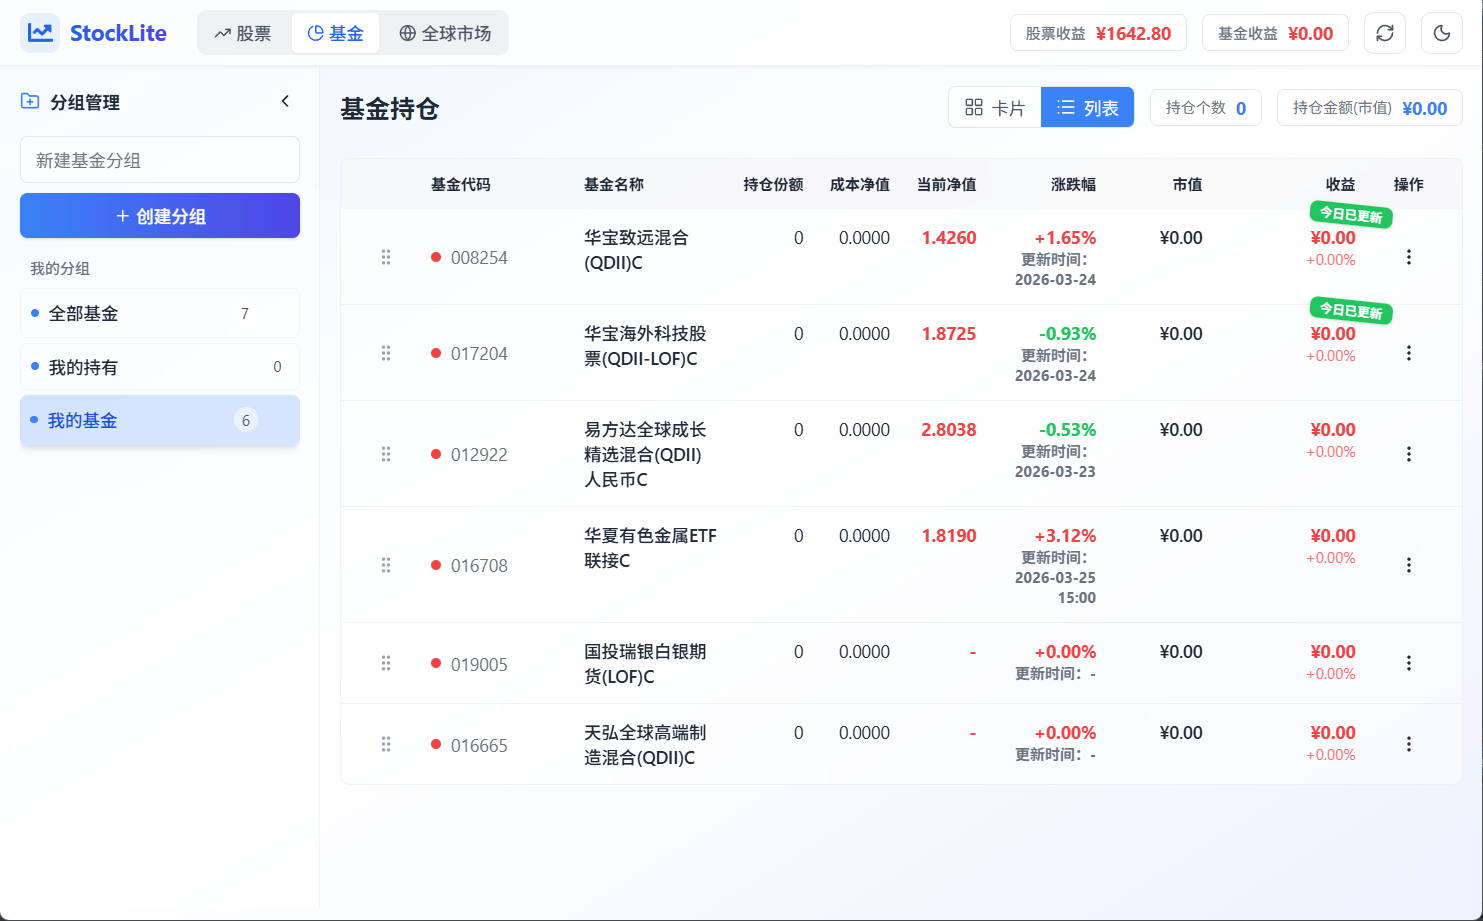
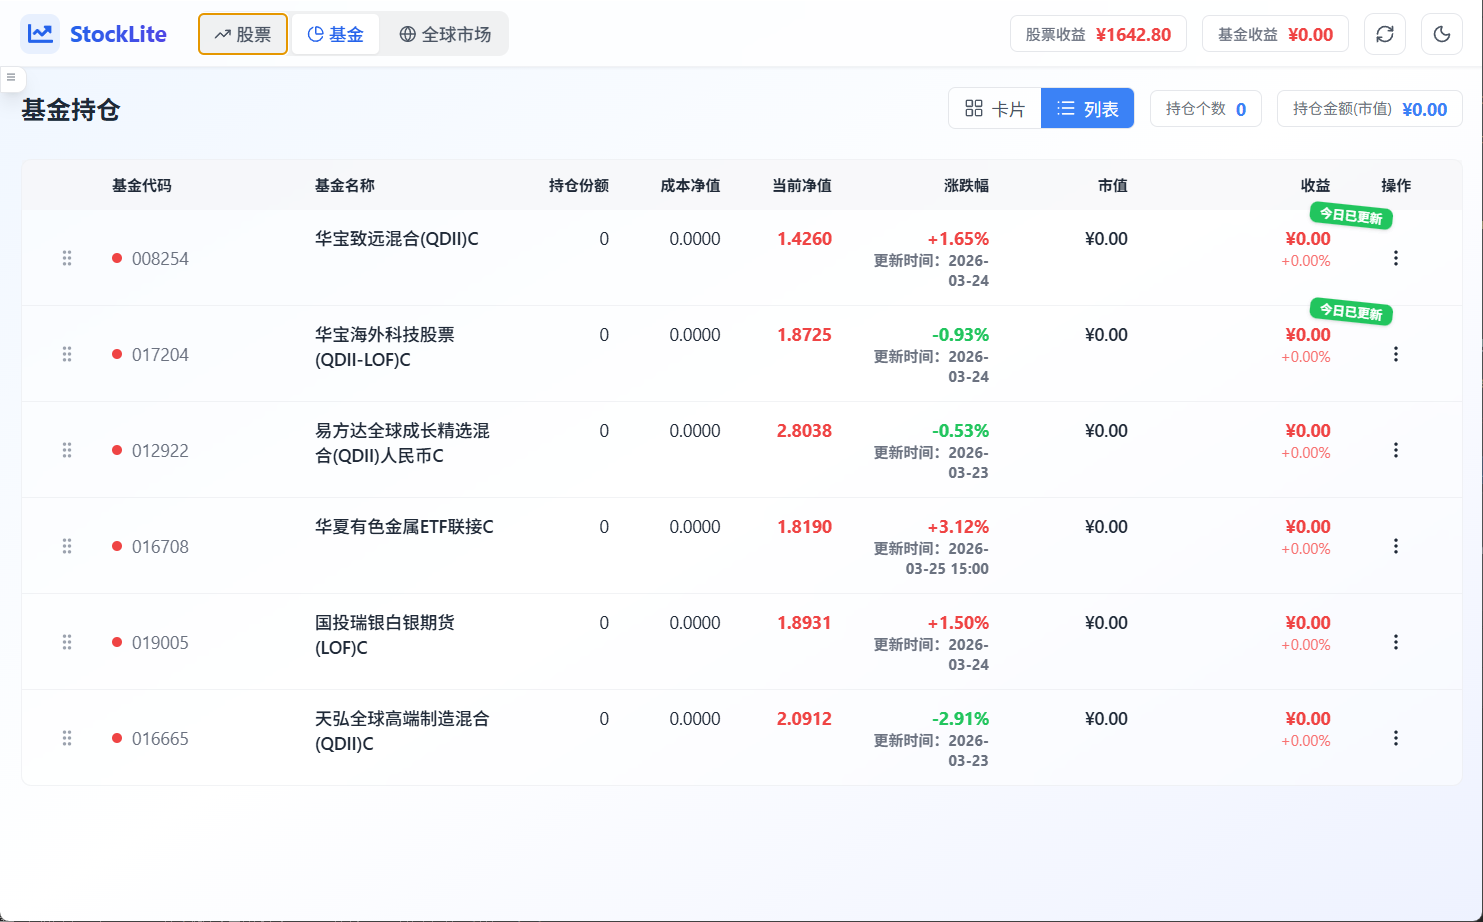
修复部分基金净值更新问题

diff --git a/src/main/ipc/quotes.ts b/src/main/ipc/quotes.ts
@@ -592,6 +592,71 @@ export function registerFundQuoteHandlers() {
       }
     }
     
+    // 通用兜底：对仍未命中的基金统一尝试东方财富 F10 历史净值接口。
+    const unresolvedCodes = uniqueCodes.filter((code) => !results[code])
+    if (unresolvedCodes.length > 0) {
+      await Promise.all(
+        unresolvedCodes.map(async (code) => {
+          try {
+            const response = await axios.get(
+              `https://fundf10.eastmoney.com/F10DataApi.aspx?type=lsjz&sdate=&edate=&code=${code}`,
+              {
+                headers: {
+                  'User-Agent': 'Mozilla/5.0 (Windows NT 10.0; Win64; x64) AppleWebKit/537.36',
+                  Referer: 'https://fundf10.eastmoney.com/',
+                },
+                timeout: 8000,
+              },
+            )
+
+            const content = response.data
+            if (!content || typeof content !== 'string') return
+
+            const tbodyMatch = content.match(/<tbody>(.*?)<\/tbody>/s)
+            if (!tbodyMatch || !tbodyMatch[1]) return
+
+            const rowMatch = tbodyMatch[1].match(/<tr[^>]*>(.*?)<\/tr>/)
+            if (!rowMatch || !rowMatch[1]) return
+
+            const cellRegex = /<td[^>]*>(.*?)<\/td>/g
+            const cells: string[] = []
+            let cellMatch: RegExpExecArray | null
+
+            while ((cellMatch = cellRegex.exec(rowMatch[1])) !== null) {
+              const cellText = cellMatch[1]
+                .replace(/<[^>]*>/g, '')
+                .replace(/&nbsp;/g, '')
+                .replace(/&amp;/g, '&')
+                .trim()
+              cells.push(cellText)
+            }
+
+            if (cells.length < 4) return
+
+            const date = cells[0]
+            const nav = parseFloat(cells[1]) || 0
+            const growthPercent = parseFloat(cells[3]) || 0
+
+            const quoteData = {
+              code,
+              name: `基金${code}`,
+              nav,
+              change: 0,
+              changePercent: growthPercent,
+              date: date || new Date().toISOString().split('T')[0],
+              updateTime: buildUpdateTime(date),
+            }
+
+            results[code] = quoteData
+            fundCache.set(code, { data: quoteData, timestamp: now })
+            console.log(`✅ Fund ${code} (F10 fallback): nav=${nav}, date=${date}, change=${growthPercent}%`)
+          } catch (error) {
+            console.warn(`❌ F10 fallback failed for fund ${code}:`, (error instanceof Error) ? error.message : error)
+          }
+        }),
+      )
+    }
+
     // 返回结果
     const finalResults = uniqueCodes
       .map(code => results[code])
